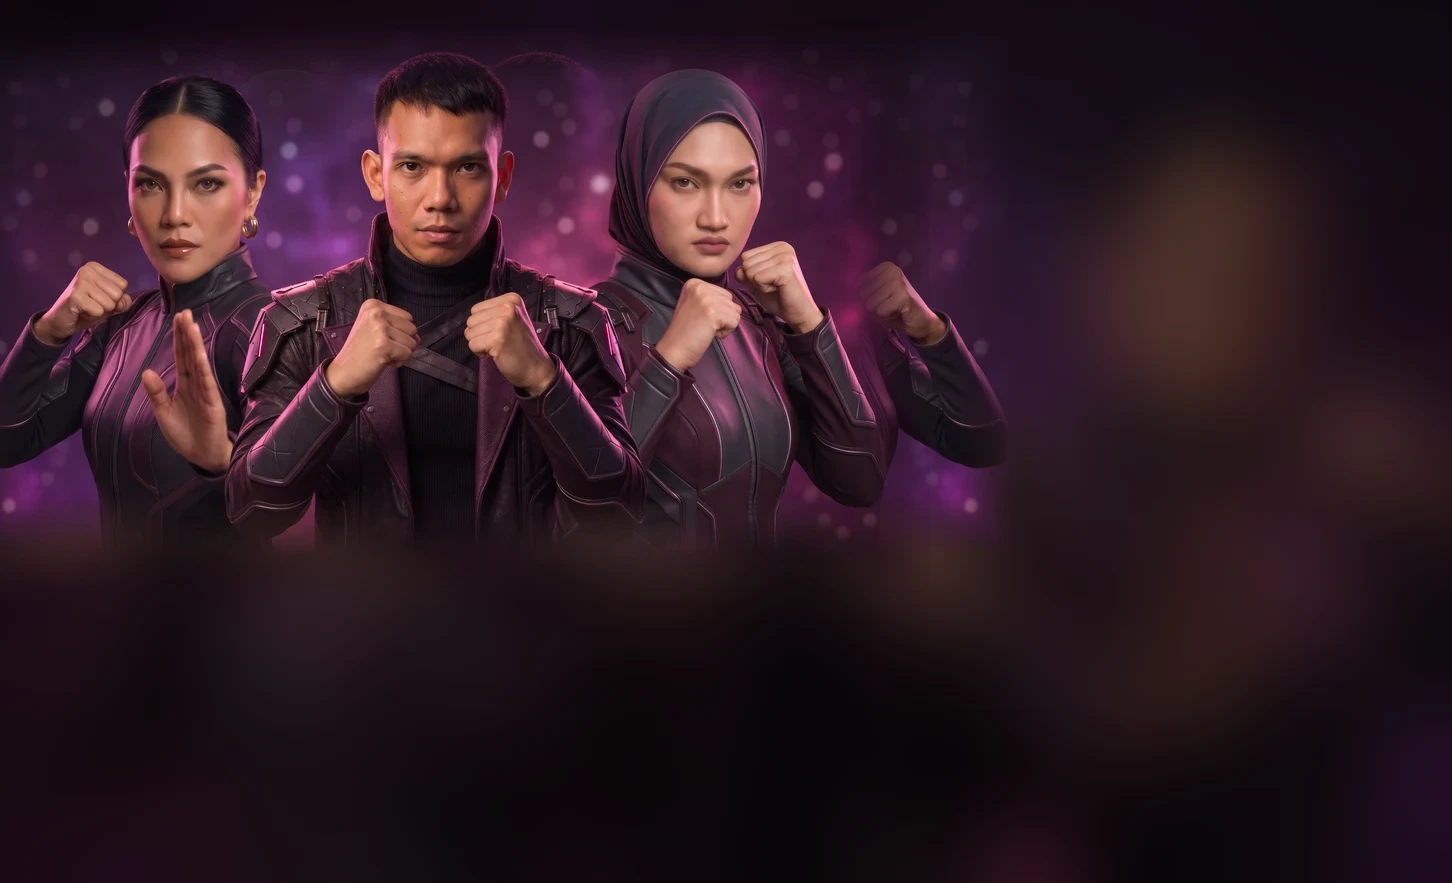
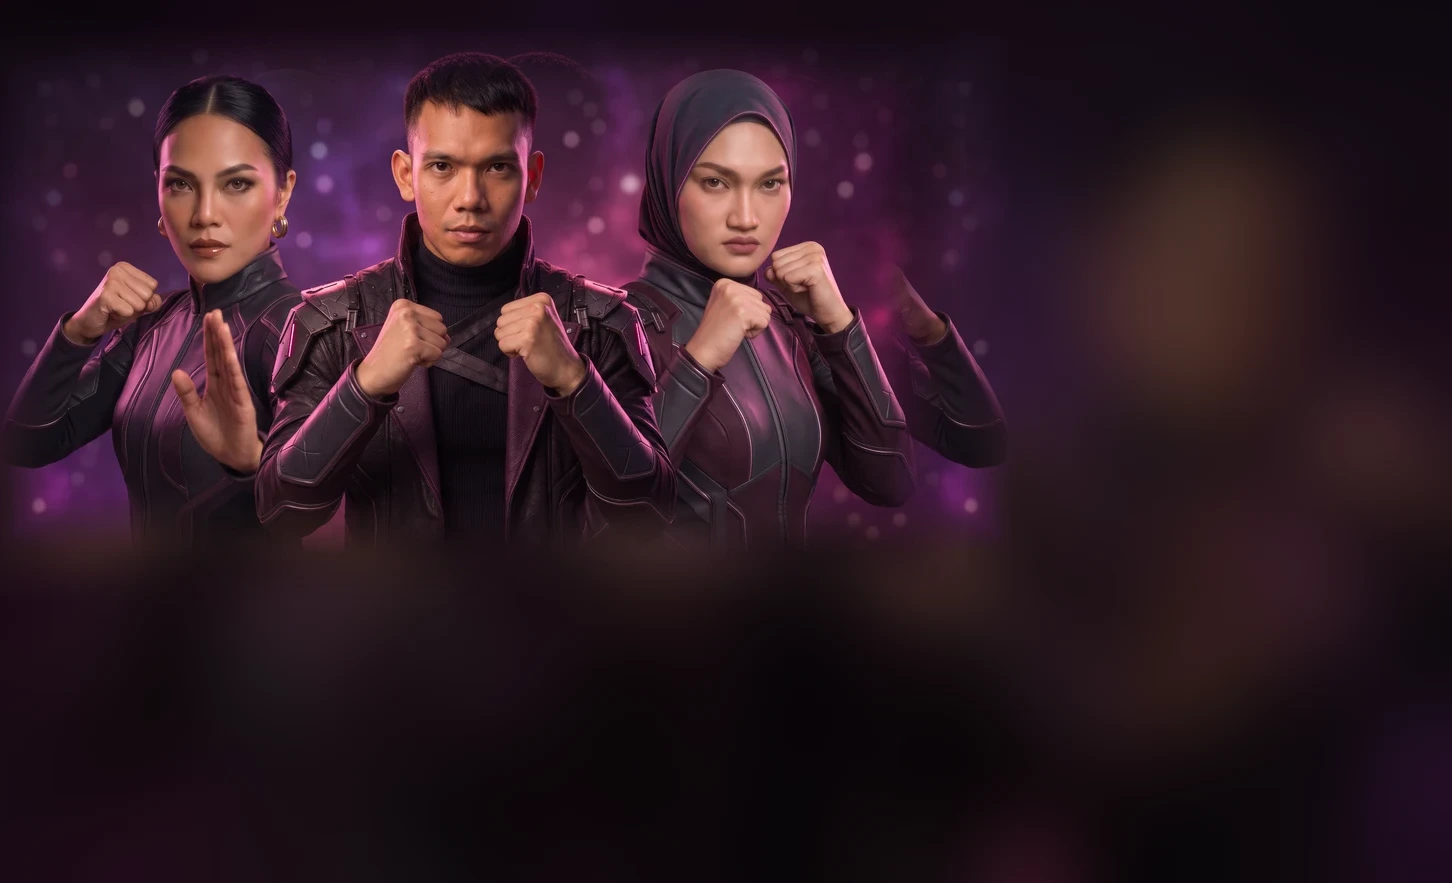
Simplify Karina/Fajar/Syelinda hero card: drop heading/quote, keep sign block
- For this specific hero card only (slot 10), hide the generic
  "DIFFERENT EXPERTISES..." heading and the italic quote line, leaving just
  the name/role signature and the NÜMEN logo. All other hero cards keep
  showing the heading and quote as before.
- Signature name for this card now reads "Karina, Fajar & Syelinda"
  instead of whichever single person's name is active.
- Nudged the flipped trio photo further right so Karina's face isn't
  pressed against the left edge.

Claude-Session: https://claude.ai/code/session_01QpfYAiXFaQHcA12hC36bw4

Changed region(s): [[0.0, 0.0612, 0.6508, 0.6116], [0.0, 0.2752, 0.031, 0.3058]]

diff --git a/index.html b/index.html
@@ -1855,10 +1855,13 @@
       $('phTags').innerHTML=''; $('phExtra').innerHTML=''; $('phExtra').style.display='none';
     }
     $('phQuote').textContent=main?first.quote:'Different expertises, one ecosystem.';
+    var noText=(slot===10), tagEl=document.querySelector('.ph-tag'), qEl=$('phQuote');
+    if(tagEl)tagEl.style.display=noText?'none':'';
+    if(qEl)qEl.style.display=noText?'none':'';
     document.querySelectorAll('.hc').forEach(function(x){x.classList.toggle('is-on',Number(x.dataset.hero)===slot)});
     if(window.fcuHeroPage){var hc=document.querySelector('.hc[data-hero="'+slot+'"]');window.fcuHeroPage(Number(hc&&hc.dataset.pg||0));}
-    var art=document.querySelector('.ph-art'); if(art){art.style.backgroundImage="linear-gradient(90deg,rgba(8,4,18,.6) 0,rgba(8,4,18,0) 32%,rgba(8,4,18,0) 58%,rgba(8,4,18,.55) 100%),linear-gradient(180deg,rgba(8,4,18,0) 55%,rgba(8,4,18,.7) 100%),url('heroes/big/p"+String(slot+1).padStart(2,'0')+".webp?v=11')";art.setAttribute('aria-label',name);}
-    $('phSignName').textContent=name; $('phSignRole').textContent=role; var LG={1:'adsventure',2:'bersinema',6:'unexplnd',14:'lrcreative',23:'oxygen',16:'holyflux',17:'pravia',8:'ssmedia',25:'getcore',22:'impressive',20:'jonbray',21:'activead',27:'sparktank',24:'fluxdesign',28:'folkshitkuy',4:'ngiklan',5:'ngiklan',10:'numen',11:'numen',18:'thecurious',19:'thecurious',3:'needed',13:'pikology',7:'wahgenz',12:'demenfilm'}, lg=$('phSignLogo'); if(lg){ if(LG[slot]){lg.src='hero-logos/'+LG[slot]+'.webp?v=6';lg.alt=role;lg.style.display='block';} else {lg.removeAttribute('src');lg.style.display='none';} }
+    var art=document.querySelector('.ph-art'); if(art){art.style.backgroundImage="linear-gradient(90deg,rgba(8,4,18,.6) 0,rgba(8,4,18,0) 32%,rgba(8,4,18,0) 58%,rgba(8,4,18,.55) 100%),linear-gradient(180deg,rgba(8,4,18,0) 55%,rgba(8,4,18,.7) 100%),url('heroes/big/p"+String(slot+1).padStart(2,'0')+".webp?v=12')";art.setAttribute('aria-label',name);}
+    $('phSignName').textContent=noText?'Karina, Fajar & Syelinda':name; $('phSignRole').textContent=role; var LG={1:'adsventure',2:'bersinema',6:'unexplnd',14:'lrcreative',23:'oxygen',16:'holyflux',17:'pravia',8:'ssmedia',25:'getcore',22:'impressive',20:'jonbray',21:'activead',27:'sparktank',24:'fluxdesign',28:'folkshitkuy',4:'ngiklan',5:'ngiklan',10:'numen',11:'numen',18:'thecurious',19:'thecurious',3:'needed',13:'pikology',7:'wahgenz',12:'demenfilm'}, lg=$('phSignLogo'); if(lg){ if(LG[slot]){lg.src='hero-logos/'+LG[slot]+'.webp?v=6';lg.alt=role;lg.style.display='block';} else {lg.removeAttribute('src');lg.style.display='none';} }
   };
   document.addEventListener('click',function(e){
     var sb=e.target.closest&&e.target.closest('#phSwitch button'); if(sb){e.preventDefault();e.stopPropagation();window.fcuHeroShow(Number(sb.dataset.hp),true);return;}
